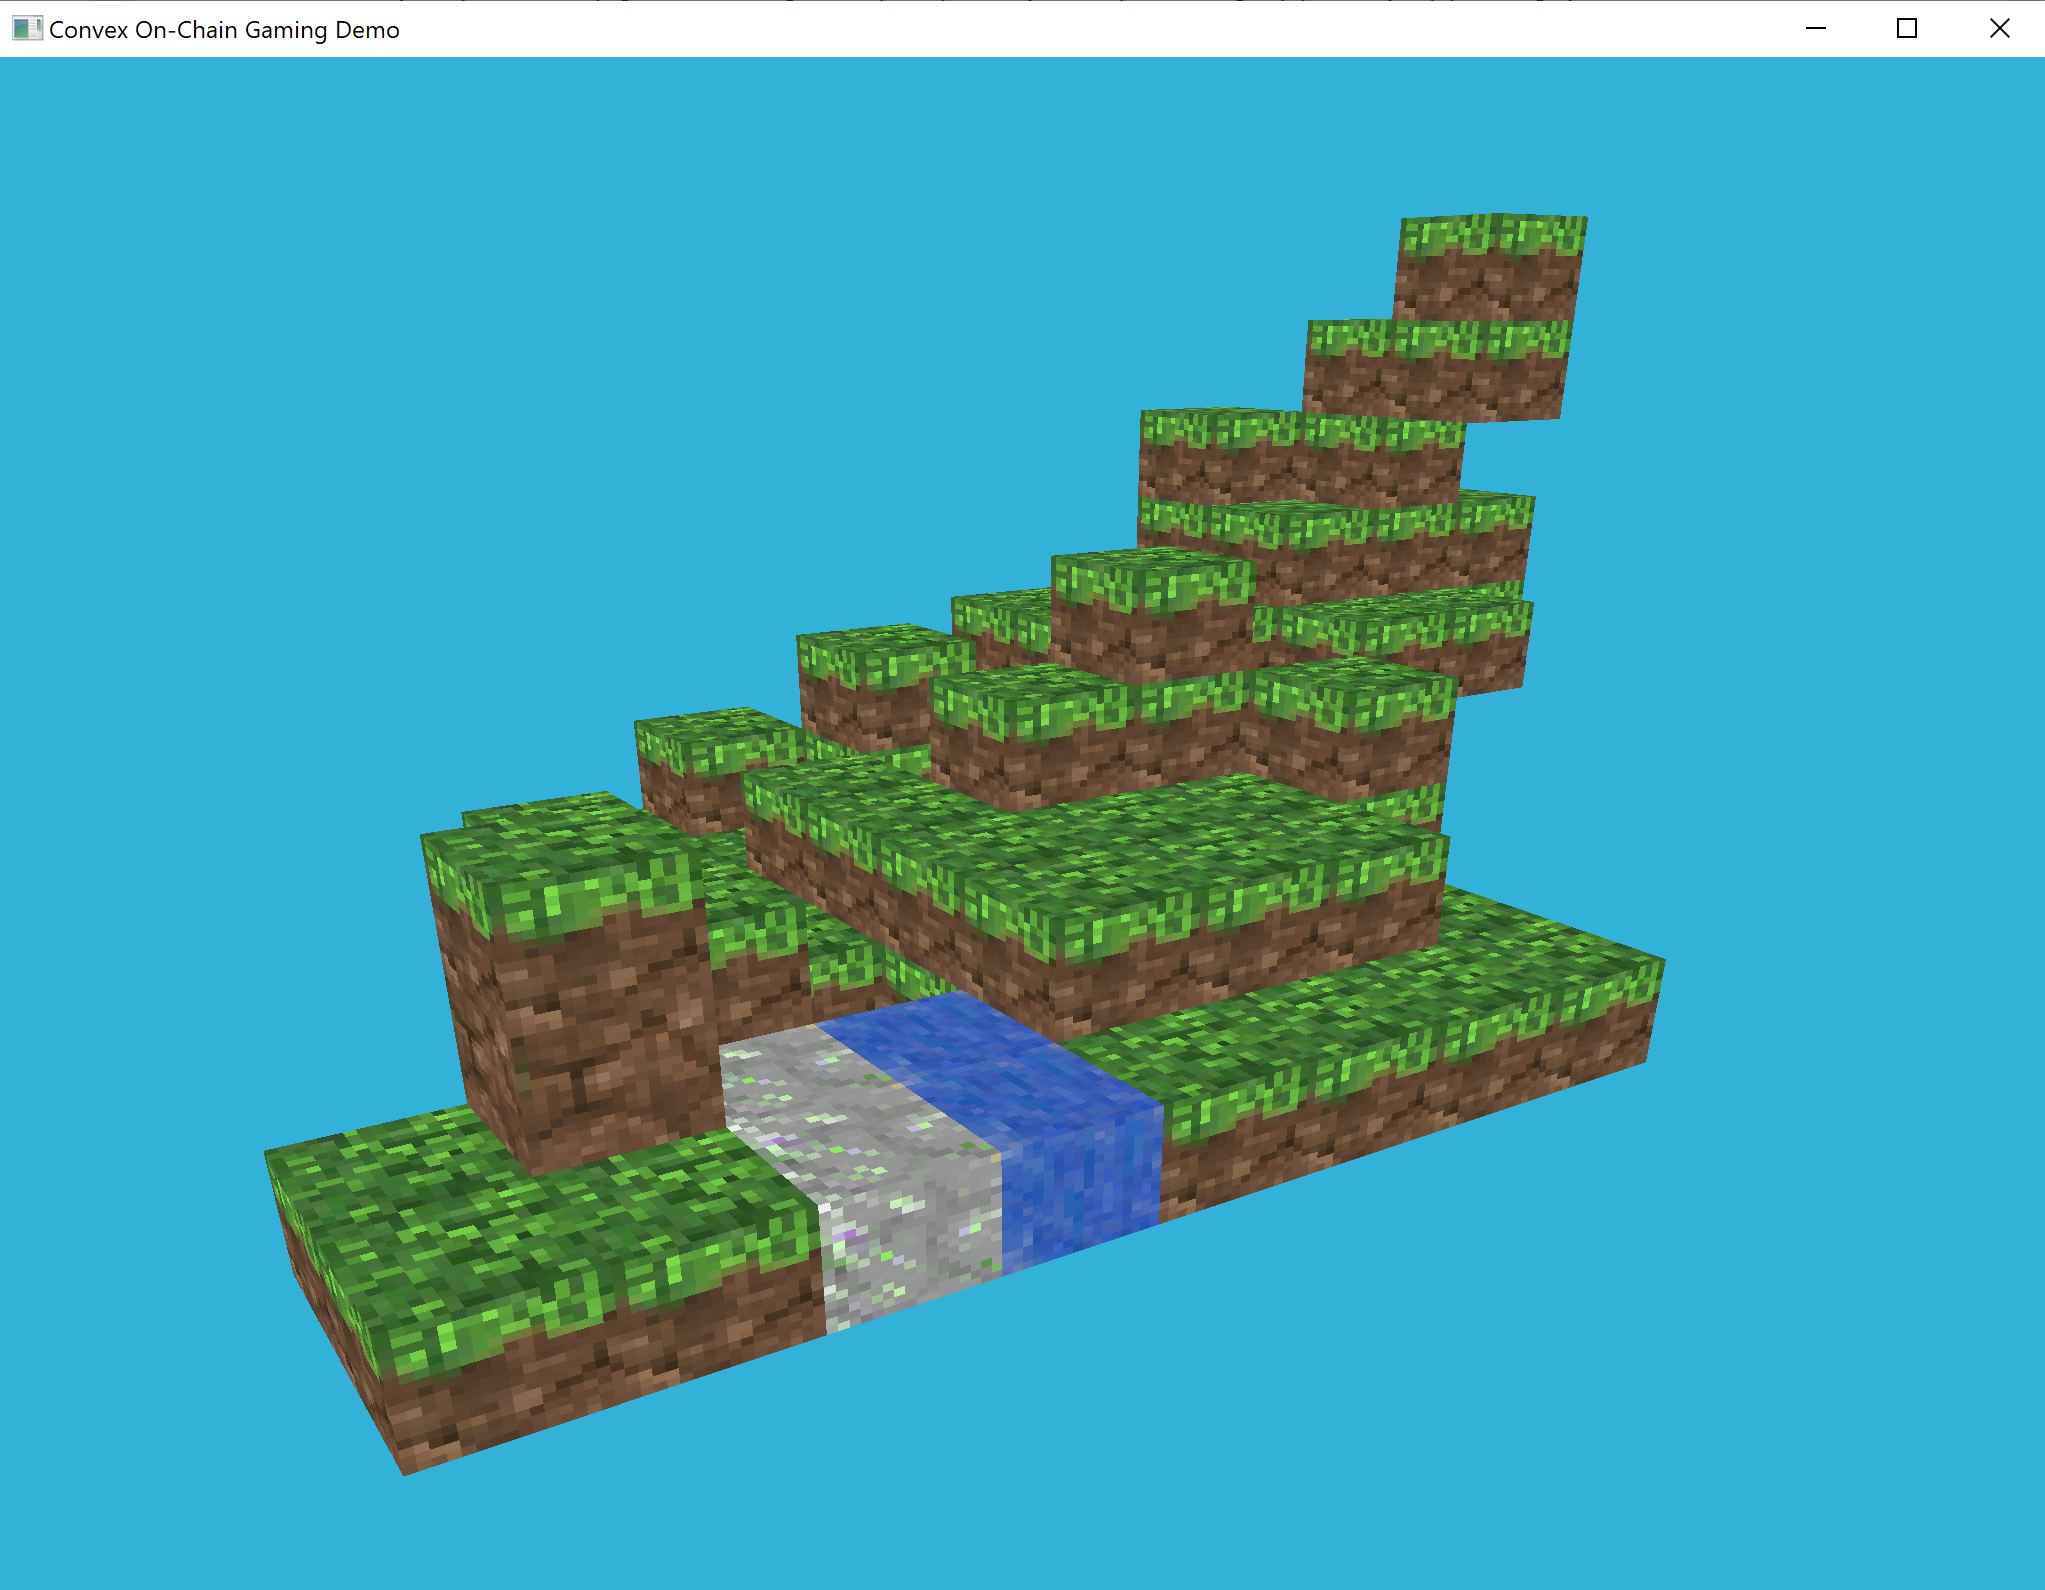
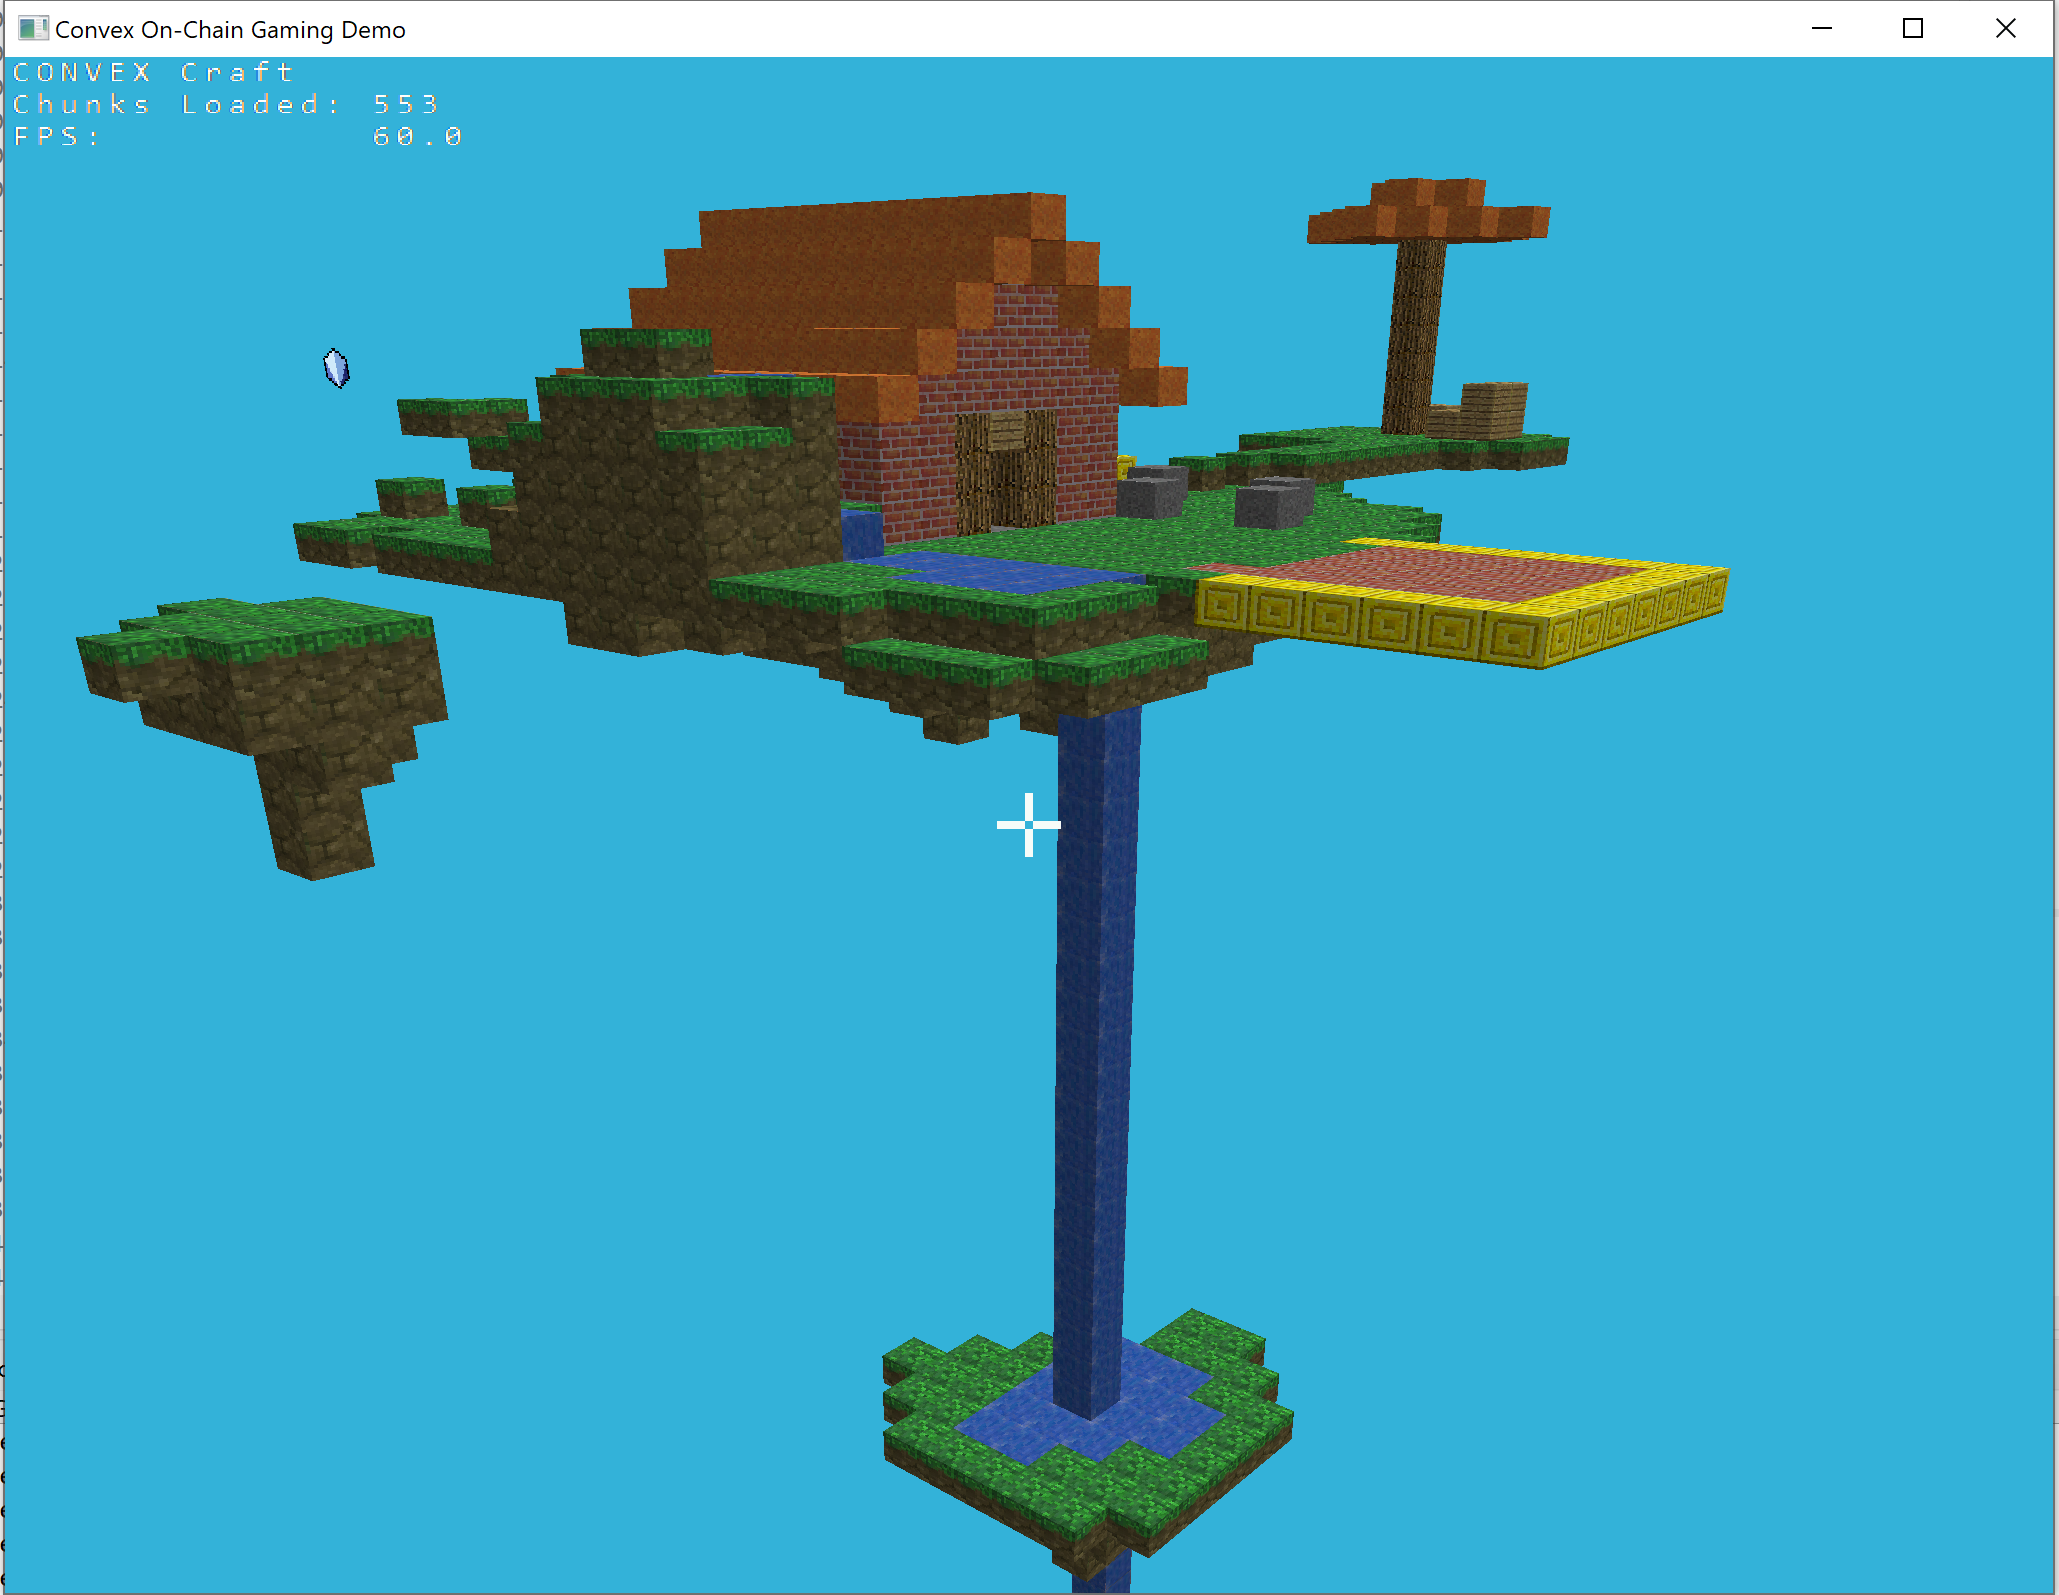
Update screenshot and readme

diff --git a/README.md b/README.md
@@ -4,7 +4,15 @@ A Block Game, inspired by Boulder Dash, Minecraft, Roguelikes and similiar.
 
 <img src="https://github.com/mikera/blockgame/blob/master/src/main/resources/images/screenshot.png?raw=true" width="400" height="300">
 
-Quite possibly the first 3D virtual world run entirely on a public decentralised network? The game engine is implemented in Convex Lisp, a Clojure-like language for on-chain smart contracts.
+Quite possibly the first 3D virtual world run entirely on a public decentralised network. The game engine is implemented in Convex Lisp, a Clojure-like language for on-chain smart contracts.
+
+## Design
+
+The game features a huge persistent virtual 3D space where players can build bases, explore new areas, build an army of minions, take on fearsome monsters and trade with other players.
+
+All in-game items are managed and secure on [Convex](https://convex.world). These can be both fungible items or unique NFTs. A system of ownership enables players to control how other players interact with their items, land and minions.
+
+ 
 
 ## Features
 
@@ -13,8 +21,12 @@ This is an experimental game exploring the boundaries of blockchain, metaverse, 
 Features and ideas under development:
 
 - NFTs used for game objects and land ownership rights
+- In-game trading of items and NFTs
 - Ability to "reify" digital assets as in-game objects
 - Real money marketplaces via the Torus decentralised currency exchange
+- Off-chain AI controllers for monsters and rogue nations
+- Time-based growth and harvesting of resources.
+
 
 ## License
 
